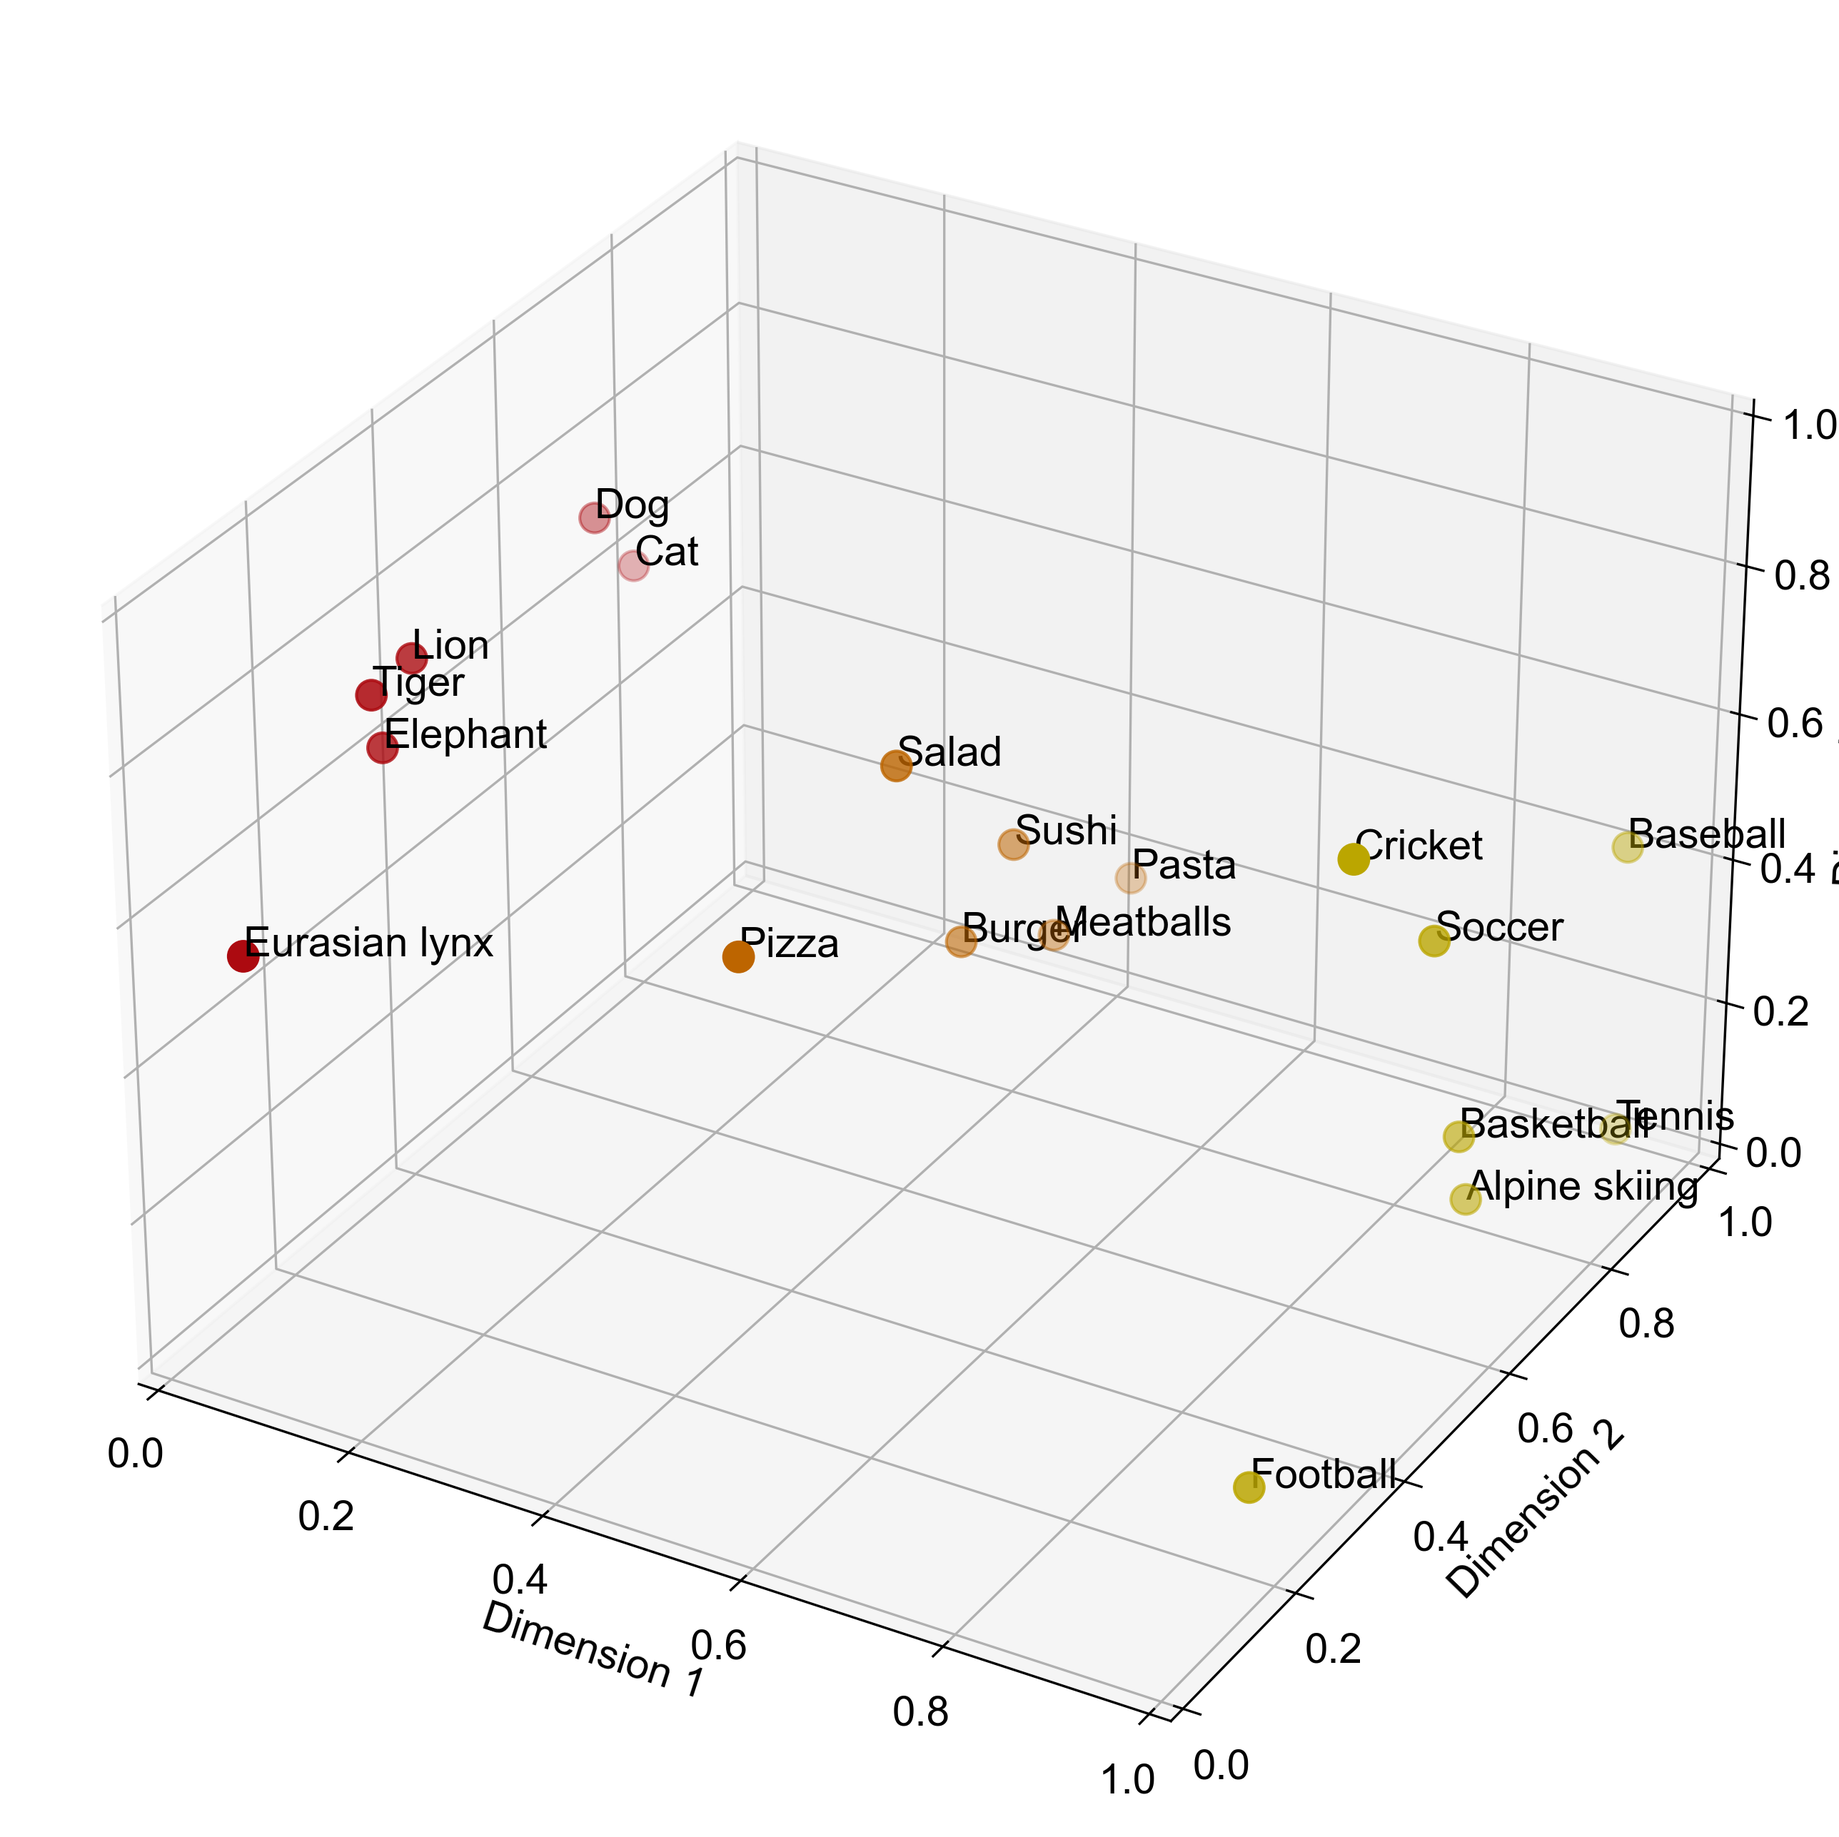
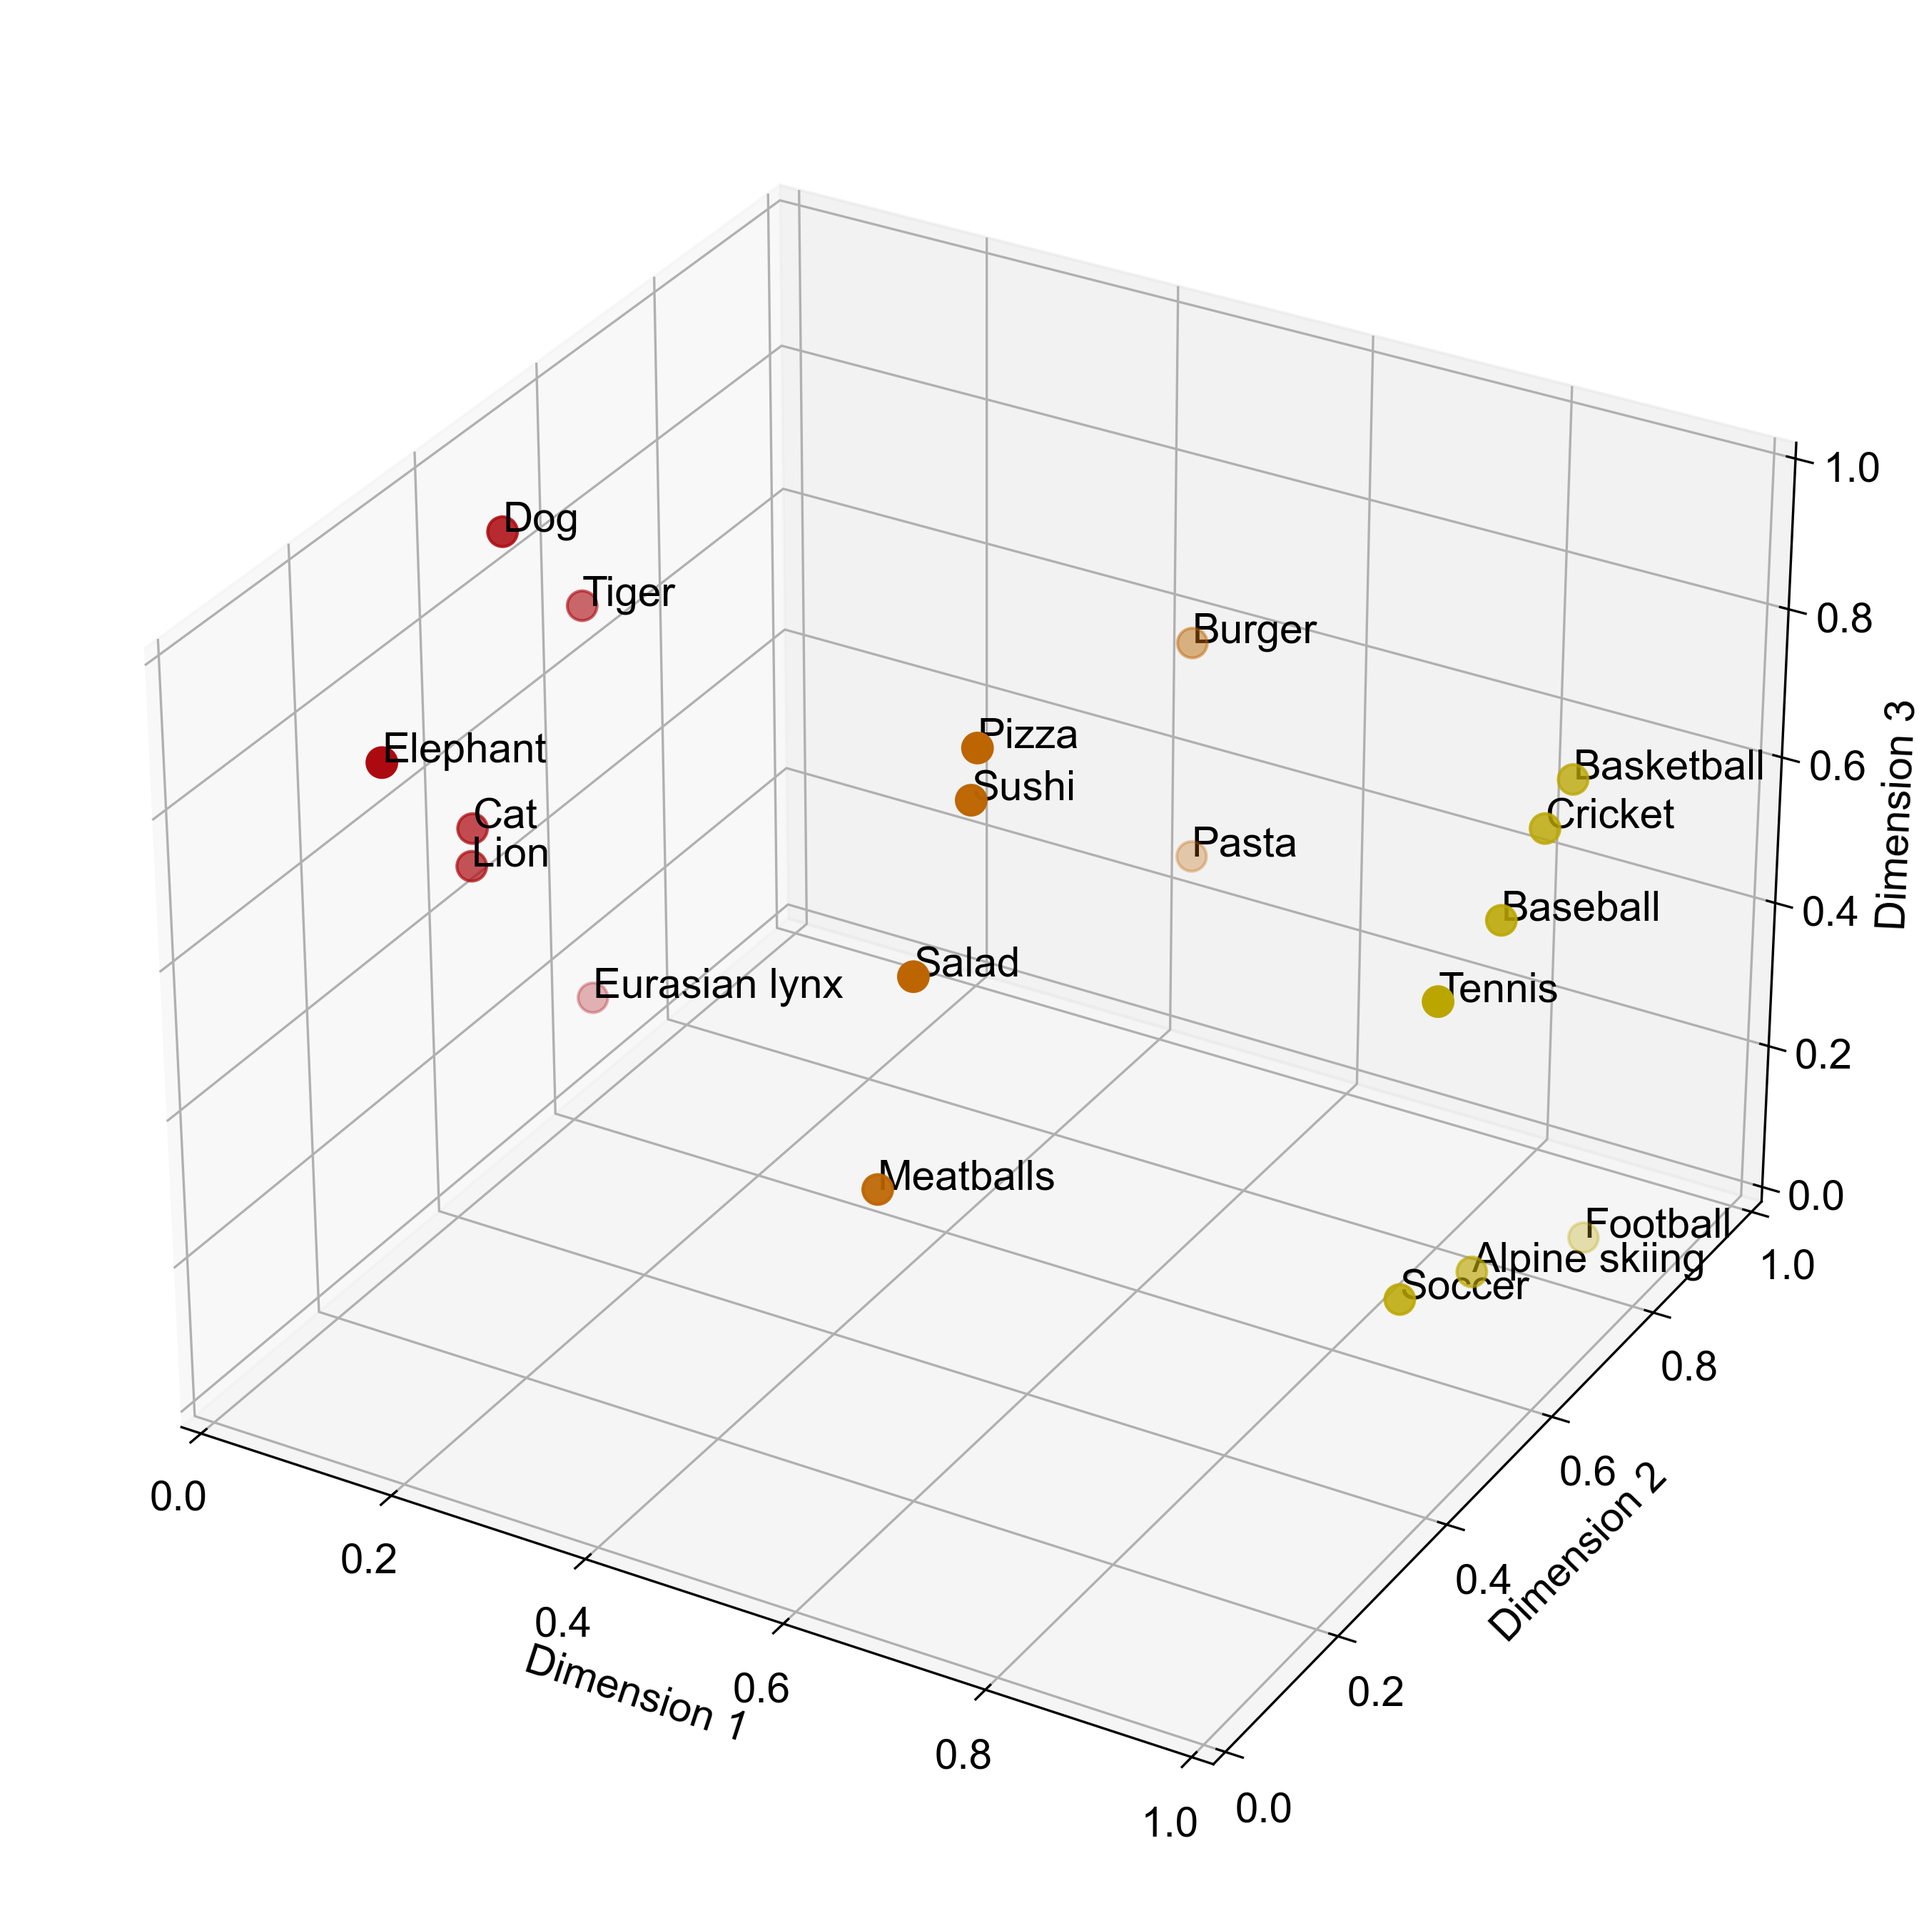
add padding to word plot so all dimensions are shown

diff --git a/plots/04-background-word-plot.py b/plots/04-background-word-plot.py
@@ -42,4 +42,4 @@ plt.tight_layout()
 
 file_path = os.path.realpath(f"{os.path.dirname(__file__)}/../content/figures/assets/04-background-word-plot.png")
 os.makedirs(os.path.dirname(file_path), exist_ok=True)
-plt.savefig(file_path, bbox_inches='tight', pad_inches=0)
+plt.savefig(file_path, bbox_inches='tight', pad_inches=.2)
